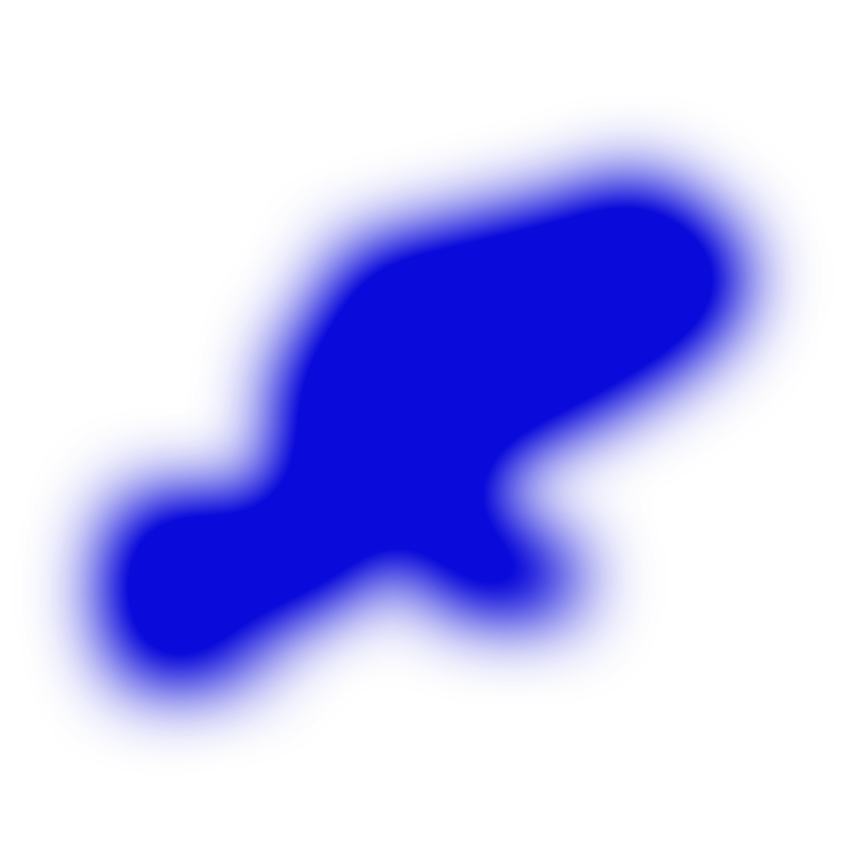
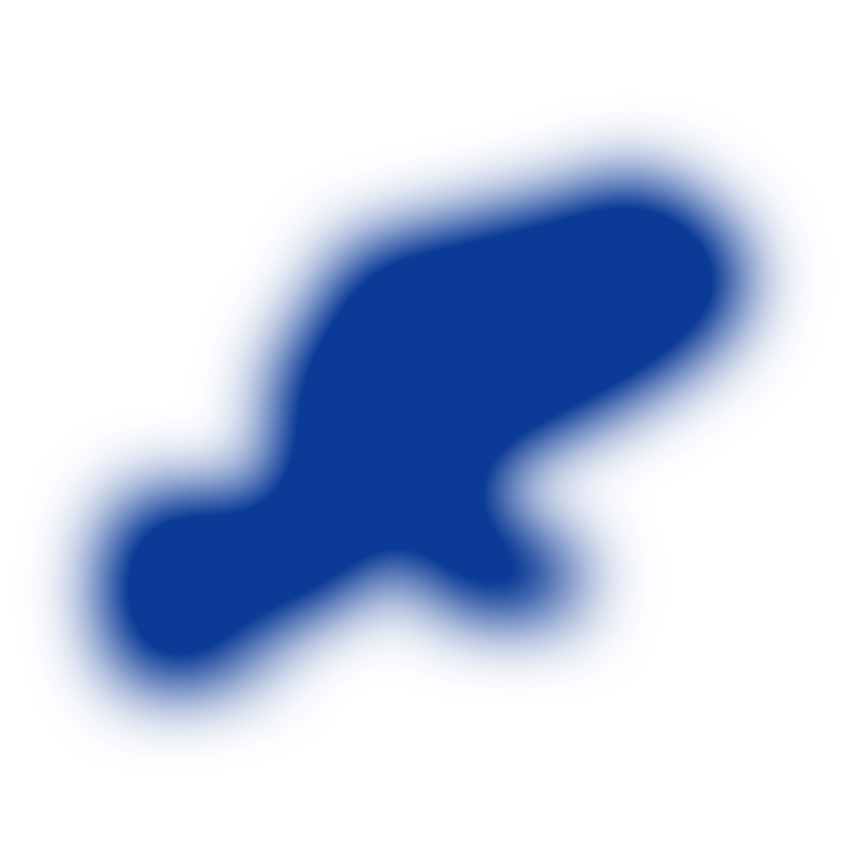
Black Always On Lateral border; navy #0C3B97 default blue; Bolt EV (hatchback) setting
- Always On Lateral border: black
- Default blue is now the settings gear's navy #0C3B97 (path, night outline, startup banner, boot glow)
- New GM toggle 'Bolt EV (Hatchback)' (off by default, reboot): 2022-23 Bolt EV wheelbase 2.600 m and
  2LT curb weight 1644 kg instead of the EUV-leaning platform values

Claude-Session: https://claude.ai/code/session_016bKgtEpjNyCbTyGg1dFRD6

Changed region(s): [[0.092, 0.184, 0.9198, 0.8278]]

diff --git a/selfdrive/frogpilot/ui/visual_settings.cc b/selfdrive/frogpilot/ui/visual_settings.cc
@@ -37,7 +37,7 @@ FrogPilotVisualsPanel::FrogPilotVisualsPanel(SettingsWindow *parent) : FrogPilot
     {"RoadNameUI", "Road Name", "See the name of the road you're on at the bottom of your screen. Sourced from OpenStreetMap.", ""},
 
     {"CameraAutoExposure", "Night Camera Exposure Fix", "Newer comma 3X units (OS04C10 camera) are stuck at a fixed exposure on this build, which makes the road picture dark at night. This lets the road cameras adjust exposure like openpilot 0.9.7 does.\n\nThe driving model sees this brighter picture too. The driver monitoring camera is not changed. Has no effect on older 3X units.\n\nRequires a reboot.", "../frogpilot/assets/toggle_icons/icon_camera.png"},
-    {"NightMode", "Night Mode", "When the comma's camera says it's dark, the screen dims to the Night Brightness below and the driving path turns into blue poison dart frog skin with a #0A0ADA outline. Switches back automatically when it's light again (30-second delay so tunnels and streetlights don't flicker it).", "../frogpilot/assets/toggle_icons/icon_camera.png"},
+    {"NightMode", "Night Mode", "When the comma's camera says it's dark, the screen dims to the Night Brightness below and the driving path turns into blue poison dart frog skin with a #0C3B97 outline. Switches back automatically when it's light again (30-second delay so tunnels and streetlights don't flicker it).", "../frogpilot/assets/toggle_icons/icon_camera.png"},
     {"NightBrightness", "  Night Brightness", "Screen brightness while Night Mode is active. Only applies when onroad screen brightness is on Auto.", ""},
     {"DriverCamera", "Driver Camera On Reverse", "Show the driver's camera feed when you shift to reverse.", "../assets/img_driver_face_static.png"},
 

diff --git a/selfdrive/ui/qt/onroad.cc b/selfdrive/ui/qt/onroad.cc
@@ -888,12 +888,12 @@ void AnnotatedCameraWidget::drawLaneLines(QPainter &painter, const UIState *s) {
   }
 
   // Stephen's mode colors (override themes/acceleration coloring):
-  //   Always On Lateral = Stephen's blue #0A0ADA, fully engaged = soft silver, off = faint neutral; path outline, lane lines, road edges black
+  //   Always On Lateral = Stephen's blue #0C3B97, fully engaged = soft silver, off = faint neutral; path outline, lane lines, road edges black
   const UIStatus mode = uiState()->status;
-  const QColor modeFill = mode == STATUS_LATERAL_ACTIVE ? QColor(0x0A, 0x0A, 0xDA)
+  const QColor modeFill = mode == STATUS_LATERAL_ACTIVE ? QColor(0x0C, 0x3B, 0x97)
                         : (mode == STATUS_ENGAGED || mode == STATUS_OVERRIDE) ? QColor(0xB8, 0xC2, 0xCC)
                         : QColor(0x80, 0x80, 0x80);
-  const QColor modeEdge = scene.night_mode ? QColor(0x0A, 0x0A, 0xDA) : QColor(0x00, 0x00, 0x00);  // Stephen: black outline; #0A0ADA at night
+  const QColor modeEdge = scene.night_mode ? QColor(0x0C, 0x3B, 0x97) : QColor(0x00, 0x00, 0x00);  // Stephen: black outline; #0C3B97 at night
   const bool modeOff = !(mode == STATUS_LATERAL_ACTIVE || mode == STATUS_ENGAGED || mode == STATUS_OVERRIDE);
   bg = QLinearGradient(0, height(), 0, 0);
   bg.setColorAt(0.0, QColor(modeFill.red(), modeFill.green(), modeFill.blue(), modeOff ? 30 : 140));

diff --git a/selfdrive/frogpilot/ui/vehicle_settings.cc b/selfdrive/frogpilot/ui/vehicle_settings.cc
@@ -122,6 +122,7 @@ FrogPilotVehiclesPanel::FrogPilotVehiclesPanel(SettingsWindow *parent) : FrogPil
     {"GasRegenCmd", "GM Truck Gas Tune", "Increase acceleration and smoothen brake to stop. For use on Silverado/Sierra only.", ""},
     {"LongPitch", "Long Pitch Compensation", "Reduce speed and acceleration error for greater passenger comfort and improved vehicle efficiency.", ""},
     {"LowerVolt", "Lower Volt Enable Speed", "Lower the Volt's minimum enable speed to enable openpilot at any speed.", ""},
+    {"BoltEV", "Bolt EV (Hatchback)", "Turn on if your car is a 2022-23 Chevy Bolt EV, not the longer Bolt EUV. Uses the EV's real wheelbase (2.60 m) and weight for the steering math. Both models share the same openpilot support.", ""},
 
     {"CrosstrekTorque", "Subaru Crosstrek Torque Increase", "Increases the maximum allowed torque for the Subaru Crosstrek.", ""},
 
@@ -167,7 +168,7 @@ FrogPilotVehiclesPanel::FrogPilotVehiclesPanel(SettingsWindow *parent) : FrogPil
     });
   }
 
-  std::set<std::string> rebootKeys = {"CrosstrekTorque", "GasRegenCmd", "LowerVolt"};
+  std::set<std::string> rebootKeys = {"BoltEV", "CrosstrekTorque", "GasRegenCmd", "LowerVolt"};
   for (const std::string &key : rebootKeys) {
     QObject::connect(toggles[key], &ToggleControl::toggleFlipped, [this]() {
       if (started) {

diff --git a/selfdrive/ui/ui.h b/selfdrive/ui/ui.h
@@ -132,14 +132,14 @@ const QColor bg_colors [] = {
   [STATUS_ENGAGED] = QColor(0xB8, 0xC2, 0xCC, 0xf1),          // soft silver: fully engaged
 
   // FrogPilot colors
-  [STATUS_LATERAL_ACTIVE] = QColor(0x0A, 0x0A, 0xDA, 0xf1),   // Stephen's blue #0A0ADA: Always On Lateral
+  [STATUS_LATERAL_ACTIVE] = QColor(0x00, 0x00, 0x00, 0xf1),   // Stephen: black border for Always On Lateral
 };
 
 static std::map<cereal::ControlsState::AlertStatus, QColor> alert_colors = {
   {cereal::ControlsState::AlertStatus::NORMAL, QColor(0x15, 0x15, 0x15, 0xf1)},
   {cereal::ControlsState::AlertStatus::USER_PROMPT, QColor(0xDA, 0x6F, 0x25, 0xf1)},
   {cereal::ControlsState::AlertStatus::CRITICAL, QColor(0xC9, 0x22, 0x31, 0xf1)},
-  {cereal::ControlsState::AlertStatus::FROGPILOT, QColor(0x0A, 0x0A, 0xDA, 0xf1)},
+  {cereal::ControlsState::AlertStatus::FROGPILOT, QColor(0x0C, 0x3B, 0x97, 0xf1)},
   {cereal::ControlsState::AlertStatus::CAUTION, QColor(0xC8, 0x9A, 0x00, 0xf1)},
 };
 

diff --git a/selfdrive/car/gm/interface.py b/selfdrive/car/gm/interface.py
@@ -271,6 +271,11 @@ class CarInterface(CarInterfaceBase):
     elif candidate in (CAR.BOLT_EUV, CAR.BOLT_CC):
       ret.mass = 1669.
       ret.wheelbase = 2.63779
+      # Smart Eco fork: 2022-23 Bolt EV (hatchback) shares this platform but is shorter and lighter.
+      # GM spec: wheelbase 2600 mm (EUV 2675), 2LT curb weight 3,624 lb.
+      if params.get_bool("BoltEV"):
+        ret.mass = 1644.
+        ret.wheelbase = 2.600
       ret.steerRatio = 16.8
       ret.centerToFront = ret.wheelbase * 0.4
       ret.tireStiffnessFactor = 1.0

diff --git a/selfdrive/ui/qt/spinner.cc b/selfdrive/ui/qt/spinner.cc
@@ -20,7 +20,7 @@ TrackWidget::TrackWidget(QWidget *parent) : QWidget(parent) {
   setAttribute(Qt::WA_OpaquePaintEvent);
   setFixedSize(spinner_size);
 
-  // Smart Eco fork: the frog sits still while a soft blue (#0A0ADA) glow behind it pulses.
+  // Smart Eco fork: the frog sits still while a soft blue (#0C3B97) glow behind it pulses.
   QPixmap comma_img = loadPixmap("../assets/img_spinner_comma.png", spinner_size);
   QPixmap glow_img = loadPixmap("../assets/img_spinner_glow.png", spinner_size);
 

diff --git a/selfdrive/frogpilot/ui/vehicle_settings.h b/selfdrive/frogpilot/ui/vehicle_settings.h
@@ -30,7 +30,7 @@ private:
 
   std::map<std::string, ParamControl*> toggles;
 
-  std::set<QString> gmKeys = {"EVTable", "GasRegenCmd", "LongPitch", "LowerVolt"};
+  std::set<QString> gmKeys = {"BoltEV", "EVTable", "GasRegenCmd", "LongPitch", "LowerVolt"};
   std::set<QString> subaruKeys = {"CrosstrekTorque"};
   std::set<QString> toyotaKeys = {"LockDoors", "LongitudinalTune", "SNGHack"};
 

diff --git a/common/params.cc b/common/params.cc
@@ -454,6 +454,7 @@ std::unordered_map<std::string, uint32_t> keys = {
     {"StoppingDistance", PERSISTENT},
     {"EcoTime30", PERSISTENT},
     {"NightMode", PERSISTENT},
+    {"BoltEV", PERSISTENT},
     {"NightBrightness", PERSISTENT},
     {"EcoTime60", PERSISTENT},
     {"TetheringEnabled", PERSISTENT},

diff --git a/selfdrive/manager/manager.py b/selfdrive/manager/manager.py
@@ -287,6 +287,7 @@ def manager_init() -> None:
     ("StoppingDistance", "0"),
     ("EcoTime30", "20"),
     ("NightMode", "1"),
+    ("BoltEV", "0"),
     ("NightBrightness", "15"),
     ("EcoTime60", "45"),
     ("TurnAggressiveness", "100"),
